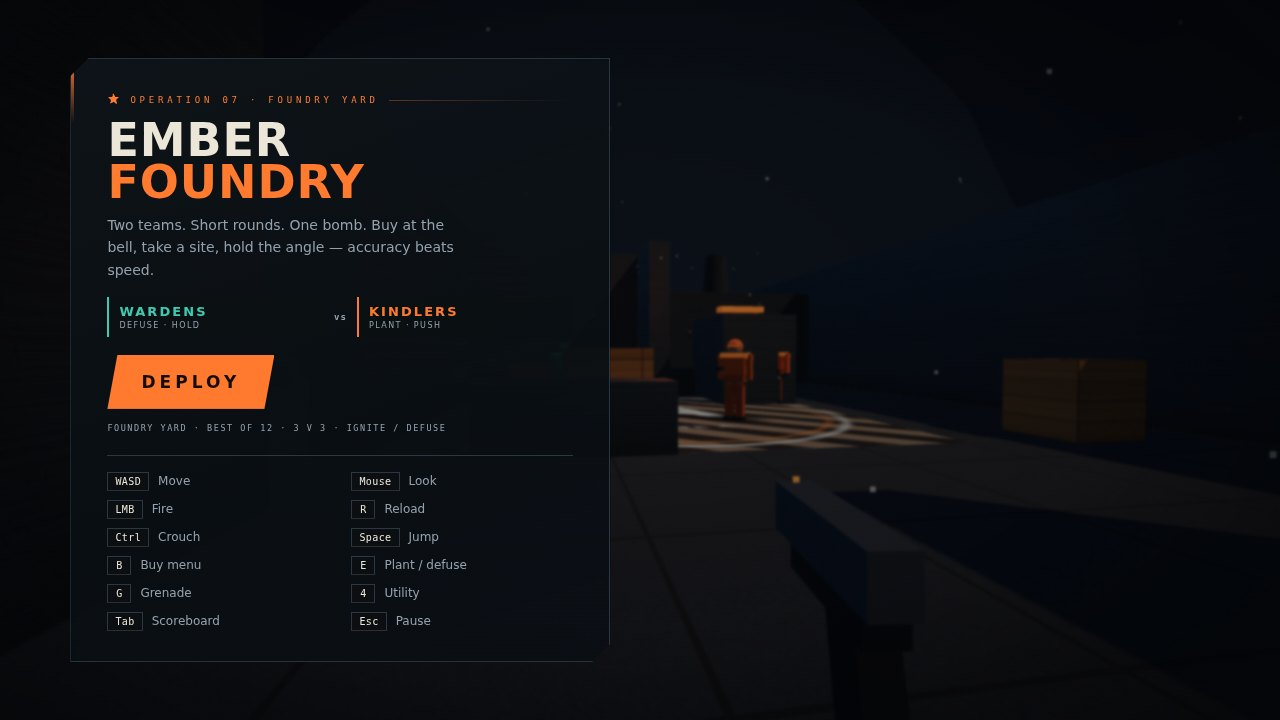
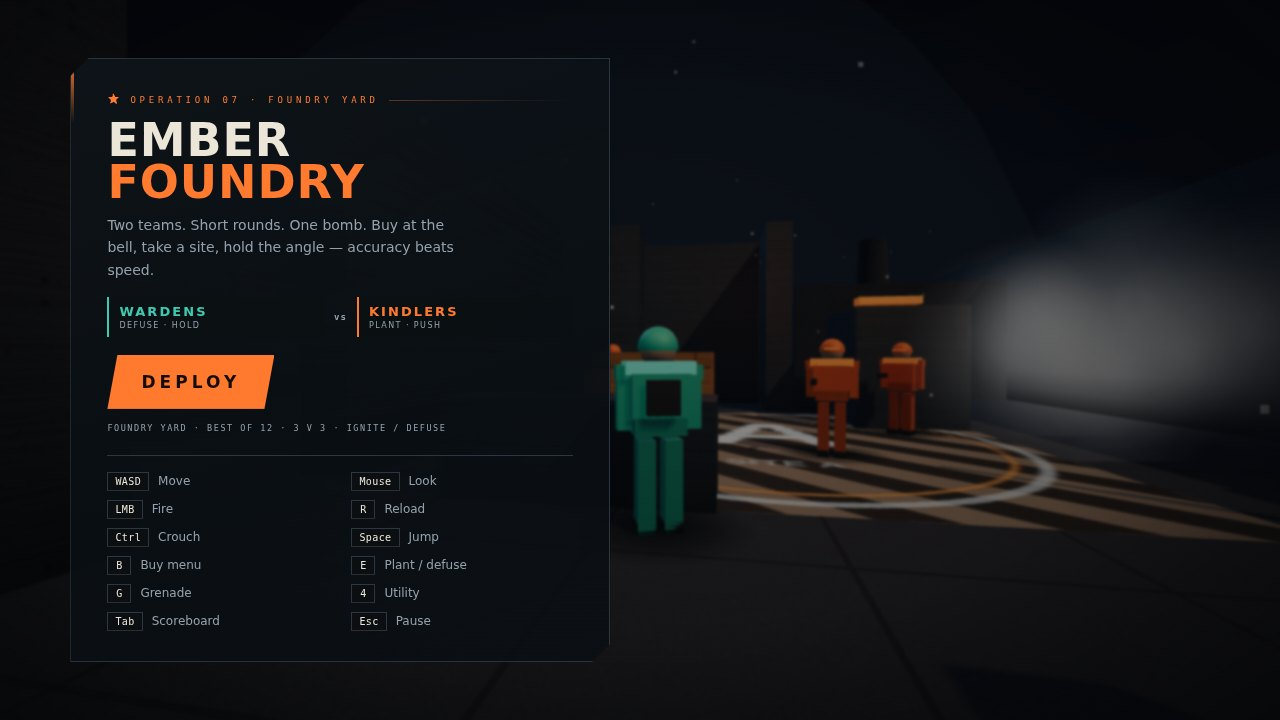
Weapon parts and hands, yard lamps, cover fill

Changed region(s): [[0.4688, 0.3361, 1.0, 0.7639]]

diff --git a/game/src/weapon.js b/game/src/weapon.js
@@ -109,7 +109,19 @@ function buildModel(kind) {
     sight.position.set(0, 0.058, -0.02);
     const dot = new THREE.Mesh(new THREE.BoxGeometry(0.008, 0.008, 0.004), glow);
     dot.position.set(0, 0.062, -0.046);
-    model.add(receiver, handguard, barrel, stock, mag, sight, dot);
+    // Small parts that break the silhouette: a brake at the muzzle, a pistol grip, a top
+    // rail and a charging handle. Cheap boxes, but they stop the gun reading as two slabs.
+    const brake = new THREE.Mesh(new THREE.CylinderGeometry(0.019, 0.019, 0.05, 8), steel);
+    brake.rotation.x = Math.PI / 2;
+    brake.position.set(0, 0.012, -0.525);
+    const grip = new THREE.Mesh(new THREE.BoxGeometry(0.036, 0.1, 0.05), dark);
+    grip.position.set(0, -0.085, 0.11);
+    grip.rotation.x = -0.3;
+    const rail = new THREE.Mesh(new THREE.BoxGeometry(0.03, 0.012, 0.26), steel);
+    rail.position.set(0, 0.045, -0.14);
+    const handle = new THREE.Mesh(new THREE.BoxGeometry(0.014, 0.014, 0.05), steel);
+    handle.position.set(-0.036, 0.02, 0.06);
+    model.add(receiver, handguard, barrel, stock, mag, sight, dot, brake, grip, rail, handle);
   } else if (kind === 'smg') {
     const receiver = new THREE.Mesh(new THREE.BoxGeometry(0.056, 0.072, 0.24), steel);
     const shroud = new THREE.Mesh(new THREE.BoxGeometry(0.042, 0.046, 0.14), dark);
@@ -121,7 +133,12 @@ function buildModel(kind) {
     mag.position.set(0, -0.115, 0.0);
     const brace = new THREE.Mesh(new THREE.BoxGeometry(0.03, 0.05, 0.12), dark);
     brace.position.set(0, -0.01, 0.17);
-    model.add(receiver, shroud, barrel, mag, brace);
+    const grip = new THREE.Mesh(new THREE.BoxGeometry(0.032, 0.09, 0.045), dark);
+    grip.position.set(0, -0.075, 0.09);
+    grip.rotation.x = -0.28;
+    const rail = new THREE.Mesh(new THREE.BoxGeometry(0.026, 0.01, 0.18), steel);
+    rail.position.set(0, 0.04, -0.1);
+    model.add(receiver, shroud, barrel, mag, brace, grip, rail);
   } else {
     const slide = new THREE.Mesh(new THREE.BoxGeometry(0.04, 0.05, 0.19), steel);
     const frame = new THREE.Mesh(new THREE.BoxGeometry(0.036, 0.03, 0.14), dark);
@@ -134,8 +151,43 @@ function buildModel(kind) {
     model.add(slide, frame, grip, dot);
   }
 
+  // Hands: two gloved blocks on the grip and the handguard, with short sleeves running
+  // back toward the camera. Without them the gun floats like a prop instead of being held.
+  const glove = new THREE.MeshStandardMaterial({ color: new THREE.Color('#2b333b'), roughness: 0.85, metalness: 0.05 });
+  const sleeve = new THREE.MeshStandardMaterial({ color: new THREE.Color('#3d474f'), roughness: 0.95 });
+  const handR = new THREE.Mesh(new THREE.BoxGeometry(0.06, 0.085, 0.1), glove);
+  const handL = new THREE.Mesh(new THREE.BoxGeometry(0.062, 0.075, 0.11), glove);
+  const armR = new THREE.Mesh(new THREE.BoxGeometry(0.075, 0.09, 0.2), sleeve);
+  const armL = new THREE.Mesh(new THREE.BoxGeometry(0.08, 0.085, 0.24), sleeve);
+  if (kind === 'pistol') {
+    handR.position.set(0.004, -0.085, 0.06);
+    armR.position.set(0.05, -0.15, 0.2);
+    armR.rotation.x = 0.4;
+    handL.position.set(-0.03, -0.075, 0.02);
+    armL.position.set(-0.09, -0.13, 0.16);
+    armL.rotation.x = 0.5;
+    armL.rotation.y = -0.45;
+  } else if (kind === 'smg') {
+    handR.position.set(0.004, -0.075, 0.085);
+    armR.position.set(0.045, -0.14, 0.22);
+    armR.rotation.x = 0.38;
+    handL.position.set(0, -0.01, -0.17);
+    armL.position.set(-0.055, -0.085, -0.02);
+    armL.rotation.x = 0.5;
+    armL.rotation.y = 0.3;
+  } else {
+    handR.position.set(0.03, -0.058, 0.06);
+    armR.position.set(0.075, -0.115, 0.2);
+    armR.rotation.x = 0.3;
+    handL.position.set(0, -0.004, -0.22);
+    armL.position.set(-0.06, -0.09, -0.05);
+    armL.rotation.x = 0.52;
+    armL.rotation.y = 0.34;
+  }
+  model.add(handR, handL, armR, armL);
+
   // Right-handed hold: low and right of the eye, so the barrel points down the camera axis.
-  model.position.set(0.17, -0.155, -0.42);
+  model.position.set(0.17, -0.126, -0.42);
   model.rotation.y = 0.045;
   return model;
 }
@@ -211,13 +263,13 @@ export function createWeaponRig(camera) {
     const swayX = Math.sin(time * 2.1) * 0.004;
     const swayY = Math.sin(time * 2.9) * 0.003;
     const bob = Math.min(1, speed / 5.3) * 0.012;
-    model.position.set(0.17 + swayX, -0.155 + swayY - bob * 0.4, -0.42 + state.kick * 0.6);
+    model.position.set(0.17 + swayX, -0.126 + swayY - bob * 0.4, -0.42 + state.kick * 0.6);
     model.rotation.x = state.kick * 1.9;
     model.rotation.z = swayX * 1.5;
     muzzle.visible = state.flash > 0;
     muzzle.rotation.z = state.flash * 42;
     muzzle.scale.setScalar(state.flash > 0 ? 1 : 0.001);
-    muzzleLight.intensity = state.flash > 0 ? 12 : 0;
+    muzzleLight.intensity = state.flash > 0 ? 6 : 0;
   }
 
   return { models, show, pose, muzzle, muzzleLight };

diff --git a/game/src/main.js b/game/src/main.js
@@ -343,13 +343,6 @@ function applyShot(shooter, def, spread) {
   return killed ? 3 : 2;
 }
 
-// A muzzle flash that actually lights the world: one point light parented to the camera,
-// driven by a timestamp so it decays with time and not with frame rate.
-const muzzleLight = new THREE.PointLight(new THREE.Color('#ffc98a'), 0, 9, 2);
-muzzleLight.position.set(0.24, -0.14, -0.9);
-camera.add(muzzleLight);
-let muzzleAt = -9;
-
 function playerShoot() {
   if (!playerBody.alive || !weaponReady(playerWeapon)) return false;
   if (!takeRound(playerWeapon)) {
@@ -363,7 +356,6 @@ function playerShoot() {
   playerBody.pitch = Math.min(1.45, playerBody.pitch + def.recoilPitch);
   playerBody.yaw += (random() * 2 - 1) * def.recoilYaw;
   audio.shot(def.sound);
-  muzzleAt = elapsed;
   if (result >= 2) hud.hitMarker(result === 3);
   pushSound(playerBody.position.x, playerBody.position.z, 'ct', 44);
   return true;
@@ -673,7 +665,7 @@ const BUY_ITEMS = [
   { id: 'rifle', name: WEAPONS.rifle.name, sub: WEAPONS.rifle.blurb, price: WEAPONS.rifle.price, icon: ICON.rifle },
   { id: 'smg', name: WEAPONS.smg.name, sub: WEAPONS.smg.blurb, price: WEAPONS.smg.price, icon: ICON.smg },
   { id: 'grenade', name: GRENADE.name, sub: GRENADE.blurb, price: GRENADE.price, icon: ICON.he },
-  { id: 'flash', name: 'Flash Grenade', sub: 'Flash · blinds 2.5s · $200', price: 200, icon: ICON.flash },
+  { id: 'flash', name: 'Flash Grenade', sub: 'Flash · blinds for 2.5 s', price: 200, icon: ICON.flash },
   { id: 'smoke', name: 'Smoke Grenade', sub: 'Smoke · 14s cloud · breaks sight', price: 300, icon: ICON.smoke },
   { id: 'armor', name: 'Kevlar Vest', sub: 'Absorbs 45% of every hit', price: ARMOR_PRICE, icon: ICON.armor },
 ];
@@ -1113,7 +1105,6 @@ function render() {
   updateBombProp();
   dust.rotation.y = elapsed * 0.008;
   dust.position.y = Math.sin(elapsed * 0.18) * 0.08;
-  muzzleLight.intensity = Math.max(0, 1 - (elapsed - muzzleAt) / 0.07) * 4;
   if (blastAt > elapsed - 0.32) {
     const t = (elapsed - blastAt) / 0.32;
     blastMesh.visible = true;
@@ -1247,10 +1238,20 @@ function paintAndReady() {
 
 const SHOT_SETUP = {
   menu() {
-    placePlayer(9.4, 7.8, -0.16, -0.02);
-    placeBot(tBots[0], 13.2, -2.4, 2.5);
-    placeBot(tBots[1], 15.6, -5.4, 2.2);
-    placeBot(ctBots[0], 9.4, -6.2, 3.2);
+    placePlayer(11.2, 5.6, 0.18, -0.01);
+    placeBot(tBots[0], 12.8, -2.2, 2.9);
+    placeBot(tBots[1], 14.6, -4.6, 2.5);
+    placeBot(ctBots[0], 10.6, 1.4, 0.35);
+    placeBot(tBots[2], 8.6, -5.2, 0.2);
+    spawnSmoke(17.2, 0.2, -3.4);
+    smokes[smokes.length - 1].born = elapsed - 5;
+    // A cover frame has no viewmodel: the gun belongs to play, not to the briefing.
+    rig.show('none');
+    // Cover lighting: menus light their hero shot. One warm fill behind the camera so the
+    // soldiers and the site read at a glance, without touching the in-game exposure.
+    const coverFill = new THREE.PointLight(new THREE.Color('#ffd2a6'), 34, 28, 2);
+    coverFill.position.set(9.2, 6.4, 4.2);
+    scene.add(coverFill);
     hud.showOverlay('start');
   },
   fight() {
@@ -1266,7 +1267,6 @@ const SHOT_SETUP = {
     inventory.rifle = createWeaponState(WEAPONS.rifle);
     inventory.rifle.mag = 17;
     inventory.rifle.flash = 0.05;
-    muzzleAt = elapsed - 0.01;
     playerWeapon = inventory.rifle;
     rig.show('rifle');
     grenades = 1;

diff --git a/game/src/world.js b/game/src/world.js
@@ -437,6 +437,24 @@ export function createWorld(scene) {
   wall(2.4, 0.8, -12.5, 16.4, 1.0, 'surface');
 
   // --- dressing: pipes, lamp housings, chimney stacks -------------------
+  // Yard lamps: four practicals on posts. They give the night map a readable floor, and
+  // they are the difference between "dark" and "lit by something".
+  for (const [lx, lz] of [[0.0, 9.5], [0.0, -9.5], [17.6, 1.0], [-17.6, 1.0]]) {
+    const post = new THREE.Mesh(new THREE.CylinderGeometry(0.07, 0.09, 4.6, 8), materials.hairline);
+    post.position.set(lx, 2.3, lz);
+    post.castShadow = true;
+    group.add(post);
+    const head = new THREE.Mesh(new THREE.BoxGeometry(0.62, 0.14, 0.36), materials.hairline);
+    head.position.set(lx, 4.62, lz);
+    group.add(head);
+    const panel = new THREE.Mesh(new THREE.BoxGeometry(0.5, 0.04, 0.26), materials.accent);
+    panel.position.set(lx, 4.53, lz);
+    group.add(panel);
+    const lamp = new THREE.PointLight(new THREE.Color('#ffc07a'), 11, 17, 2);
+    lamp.position.set(lx, 4.4, lz);
+    group.add(lamp);
+  }
+
   for (const z of [8.4, 5.2, 1.0]) {
     const pipe = new THREE.Mesh(new THREE.CylinderGeometry(0.13, 0.13, 3.2, 8), materials.muted);
     pipe.rotation.z = Math.PI / 2;
